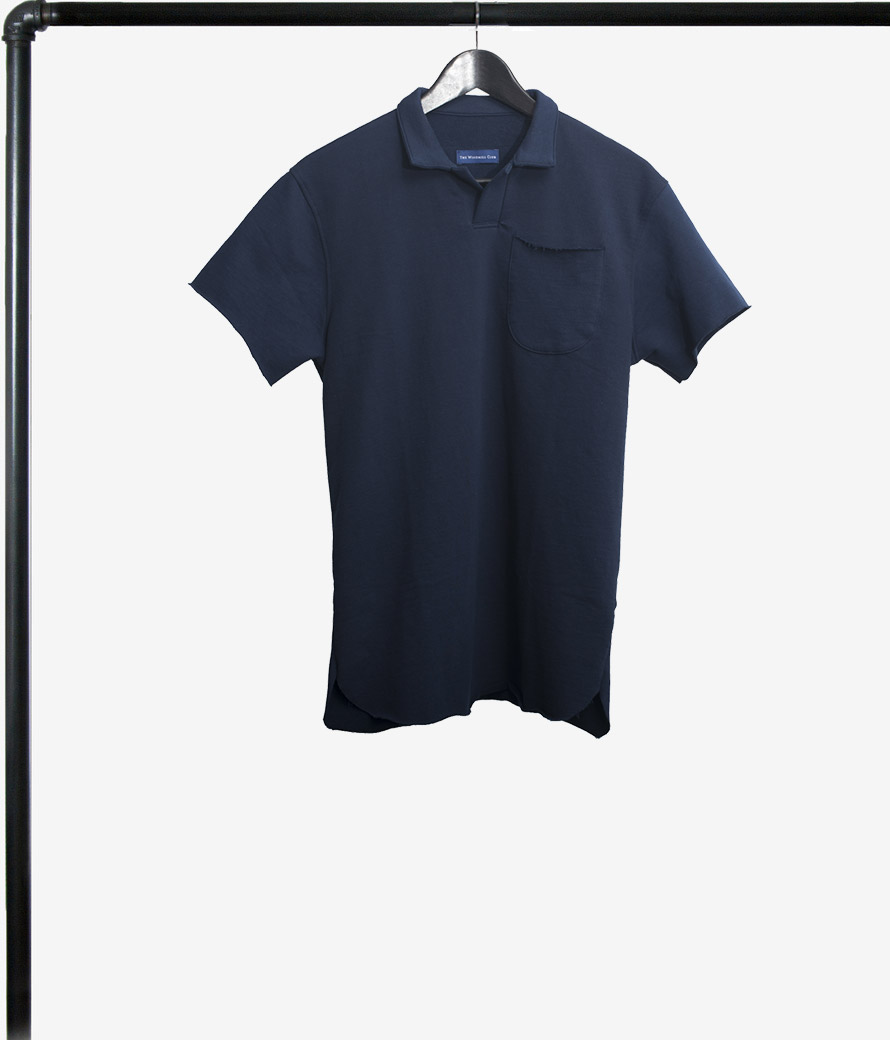
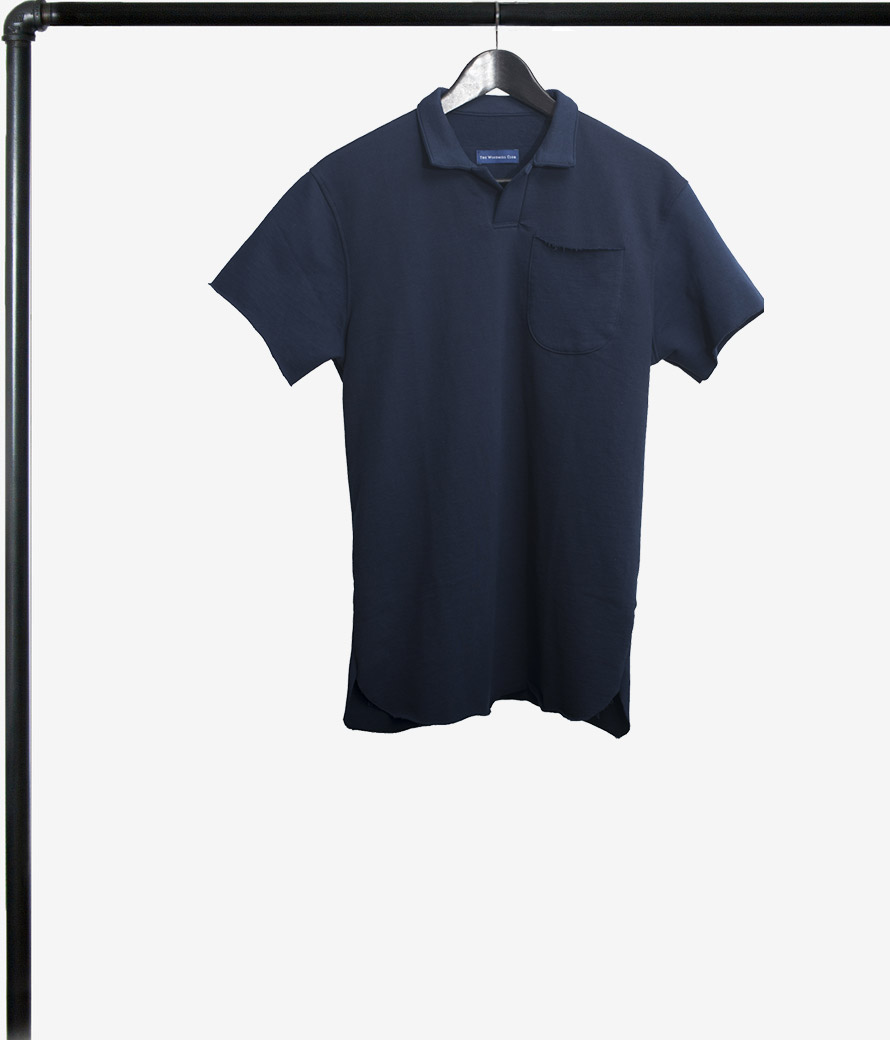
centered hanger images

diff --git a/dist/css/steeze.css b/dist/css/steeze.css
@@ -1047,7 +1047,7 @@ select[data-dkcacheid] {
   .shop-section .hanger-column {
     position: relative;
     z-index: 1;
-    padding-bottom: 8.75rem; }
+    padding-bottom: 11.25rem; }
     .shop-section .hanger-column::after {
       clear: both;
       content: "";
@@ -1056,7 +1056,7 @@ select[data-dkcacheid] {
       max-width: 110%; }
     @media screen and (min-width: 460px) {
       .shop-section .hanger-column {
-        padding-bottom: 6.25rem; } }
+        padding-bottom: 6.875rem; } }
     @media screen and (min-width: 560px) {
       .shop-section .hanger-column {
         padding-bottom: 5rem; } }
@@ -1124,9 +1124,6 @@ select[data-dkcacheid] {
 .buy .buy-button {
   float: left; }
 
-.purchase-price {
-  margin-bottom: 0.3125rem; }
-
 .purchase {
   position: absolute;
   width: 90%;
@@ -1149,6 +1146,11 @@ select[data-dkcacheid] {
       .purchase.left {
         left: auto;
         right: 40px; } }
+  .purchase h2 {
+    margin-bottom: 1.875rem;
+    font-size: 1.25rem; }
+    .purchase h2.purchase-price {
+      margin-bottom: 0.625rem; }
 
 .shipping {
   font-style: italic; }

diff --git a/src/scss/sections/_shop.scss b/src/scss/sections/_shop.scss
@@ -22,7 +22,7 @@
 		@include clearfix;
 		position: relative;
 		z-index: 1;
-		padding-bottom: rem(140px);
+		padding-bottom: rem(180px);
 
 		.fluid-image {
 			img {
@@ -31,7 +31,7 @@
 		}
 
 		@include media(min-width 460px) {
-			padding-bottom: rem(100px);
+			padding-bottom: rem(110px);
 		}
 		@include media($small) {
 			padding-bottom: rem(80px);

diff --git a/src/scss/sections/_shop-buy.scss b/src/scss/sections/_shop-buy.scss
@@ -15,10 +15,6 @@
 
 }
 
-.purchase-price {
-	margin-bottom: rem(5px);
-}
-
 
 // TODO: better class names
 .purchase {
@@ -41,6 +37,15 @@
 		&.left {
 			left: auto;
 			right: 40px;
+		}
+	}
+
+	h2 {
+		margin-bottom: rem(30px);
+		font-size: rem(20px);
+
+		&.purchase-price {
+			margin-bottom: rem(10px);
 		}
 	}
 }
